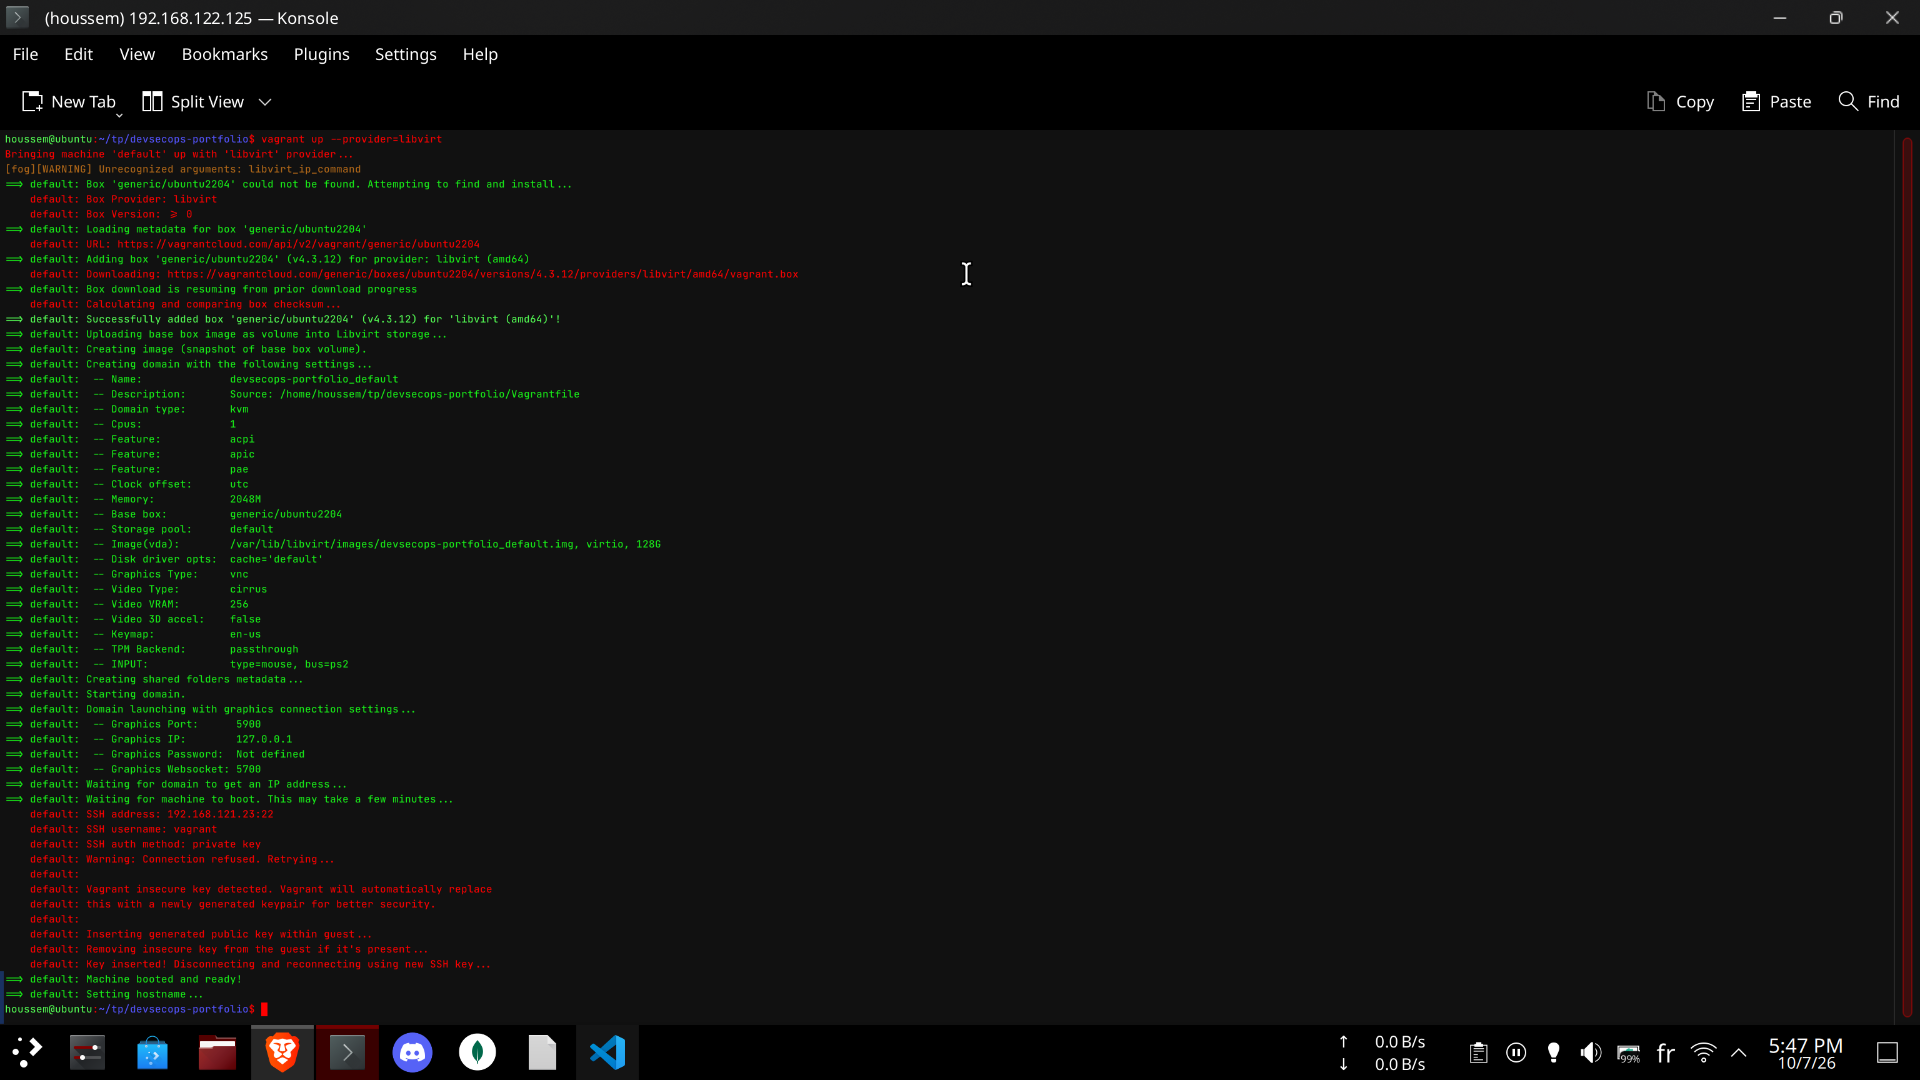
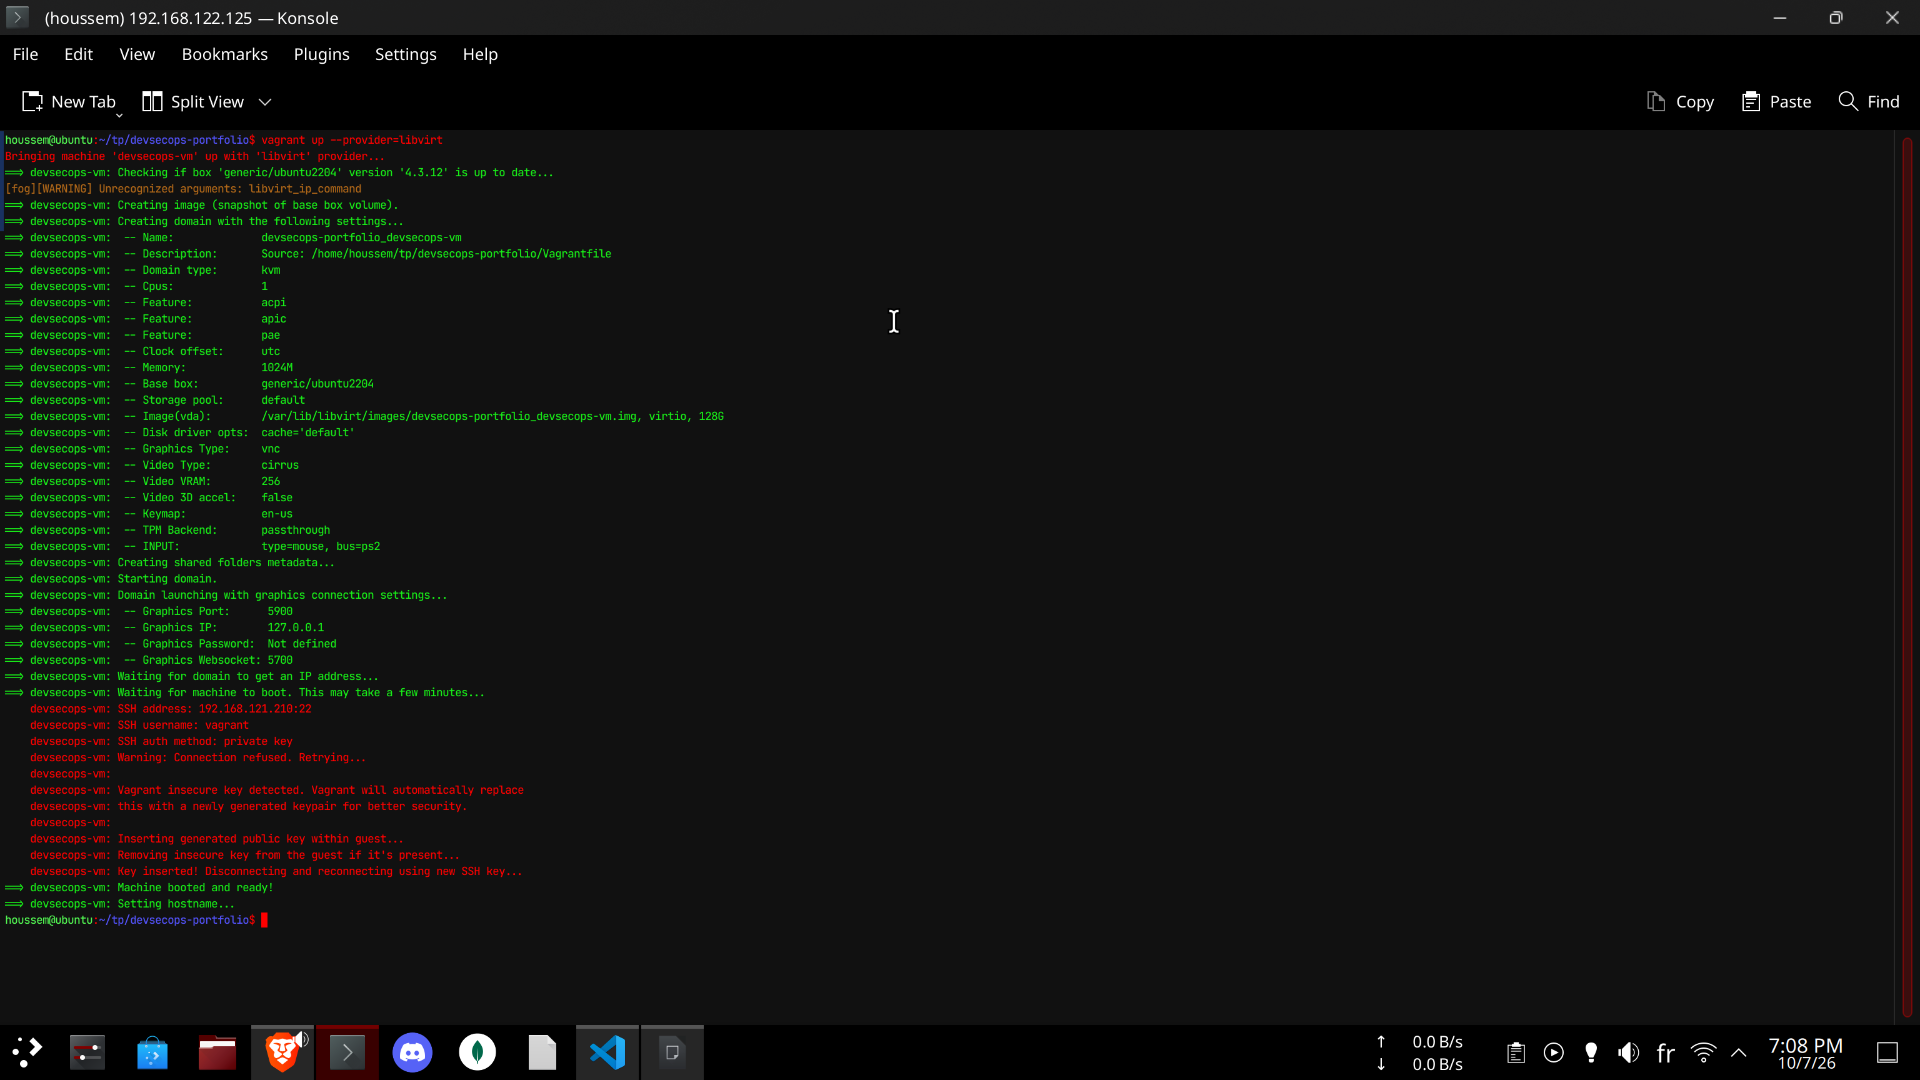
17. Vagrant Configuration

diff --git a/README.md b/README.md
@@ -362,10 +362,11 @@ Vagrant.configure("2") do |config|
 
   config.vm.box = "generic/ubuntu2204"
 
+  config.vm.define "devsecops-vm"
   config.vm.hostname = "devsecops-vm"
 
   config.vm.provider :libvirt do |libvirt|
-    libvirt.memory = 2048
+    libvirt.memory = 1024
     libvirt.cpus = 1
   end
 
@@ -400,7 +401,7 @@ Vagrant allows the VM to be created automatically from a `Vagrantfile`, while ma
 
 ### 17. Vagrant Configuration
 
-The `Vagrantfile` was modified to automatically configure the VM hostname, private IP address, memory and CPU.
+The `Vagrantfile` was modified to automatically configure the VM name, hostname, private IP address, memory and CPU.
 
 #### Vagrantfile
 
@@ -409,12 +410,14 @@ Vagrant.configure("2") do |config|
 
   config.vm.box = "generic/ubuntu2204"
 
+  config.vm.define "devsecops-vm-update"
+
   config.vm.hostname = "devsecops-vm-update"
 
-  config.vm.network "private_network", ip: "192.168.121.100"
+  config.vm.network "private_network", ip: "192.168.56.10"
 
   config.vm.provider :libvirt do |libvirt|
-    libvirt.memory = 3072
+    libvirt.memory = 2048
     libvirt.cpus = 2
   end
 
@@ -424,7 +427,11 @@ end
 #### Apply the Configuration
 
 ```bash
-vagrant reload --provider=libvirt
+vagrant destroy -f
+```
+
+```bash
+vagrant up --provider=libvirt
 ```
 
 #### Check VM Status
@@ -438,9 +445,20 @@ Example result:
 ```text
 Current machine states:
 
-default                   running (libvirt)
+devsecops-vm-update       running (libvirt)
 ```
 
 ![Vagrant Status](images/17-vagrant-status.png)
 
-The VM is automatically configured with the hostname `devsecops-vm-update`, a private IP address, 3 GB of RAM and 2 CPUs.
+The VM is automatically configured with the name and hostname `devsecops-vm-update`, the private IP address `192.168.56.10`, 2 GB of RAM and 2 CPUs.
+
+#### Why not use `vagrant reload --provider=libvirt`?
+
+`vagrant reload` only halts and restarts an **existing** VM. It does not fit this change, for these reasons:
+
+- **The VM name changed.** `config.vm.define` sets the machine name, so Vagrant treats `devsecops-vm-update` as a new machine. No libvirt domain exists for it yet, and `reload` fails with "Domain is not created. Please run `vagrant up` first". The VM has to be created with `vagrant up`.
+- **Network changes may not apply cleanly.** After adding the private network, Vagrant warned that the number of network adapters in the config (2) differed from the attached interfaces (1) and "may have incorrectly updated". A reload can keep the old interface layout, whereas recreating the VM guarantees `eth1` with the private IP.
+- **The `--provider` flag is useless on reload.** The provider is fixed when the machine is created, so `--provider=libvirt` is ignored. It only matters on the first `vagrant up`.
+- **Reproducibility.** `vagrant destroy -f` followed by `vagrant up` rebuilds the VM entirely from the Vagrantfile, which proves the configuration is fully automatic and leaves no leftovers from the old setup.
+
+`vagrant reload` is still fine for small changes to an existing VM, such as memory or CPU only.
